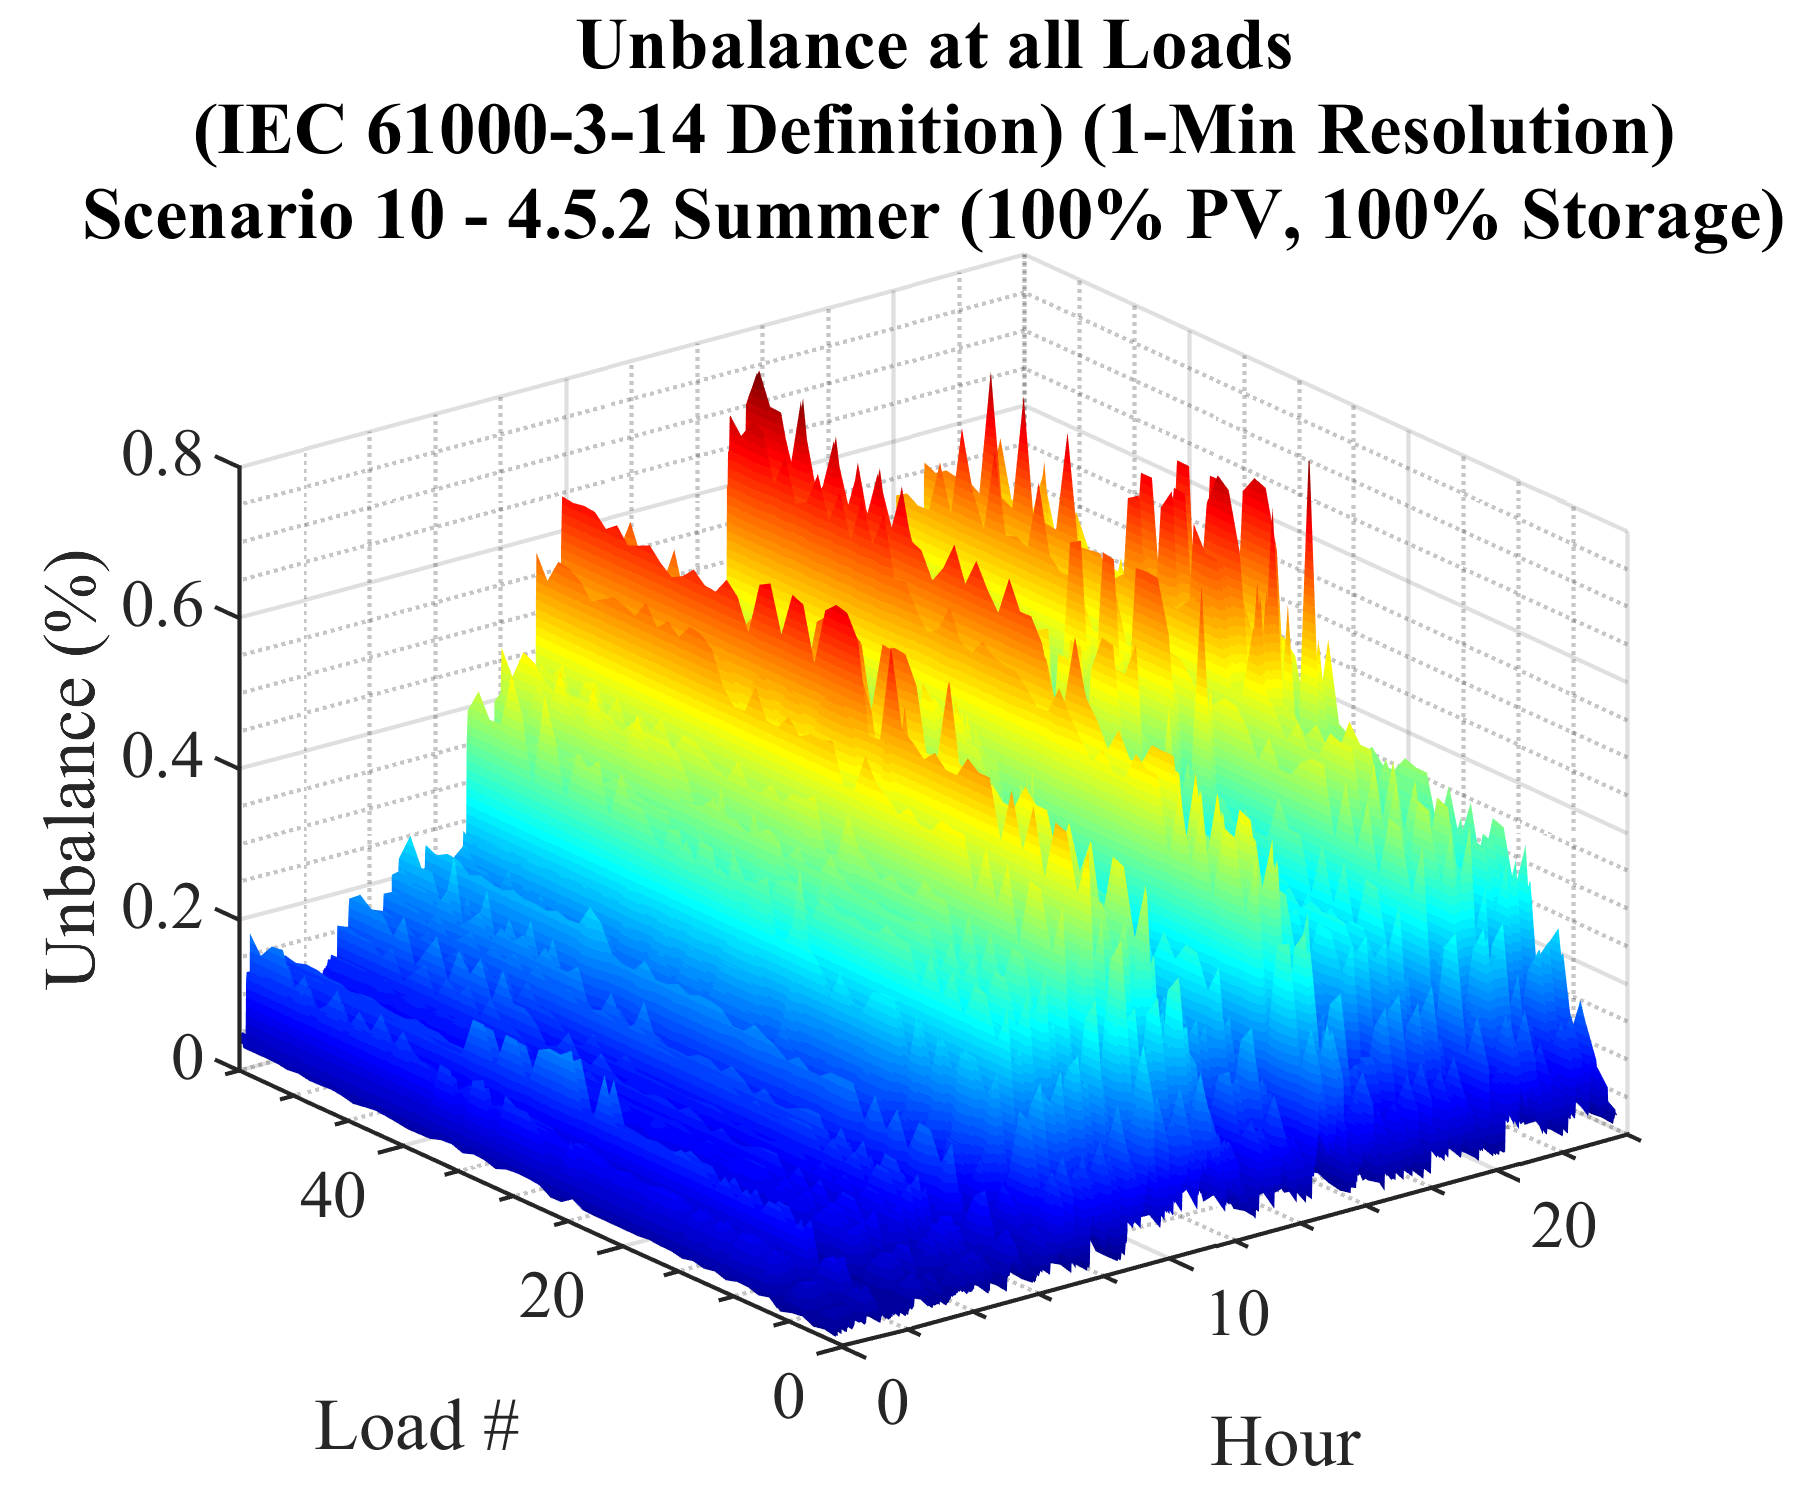
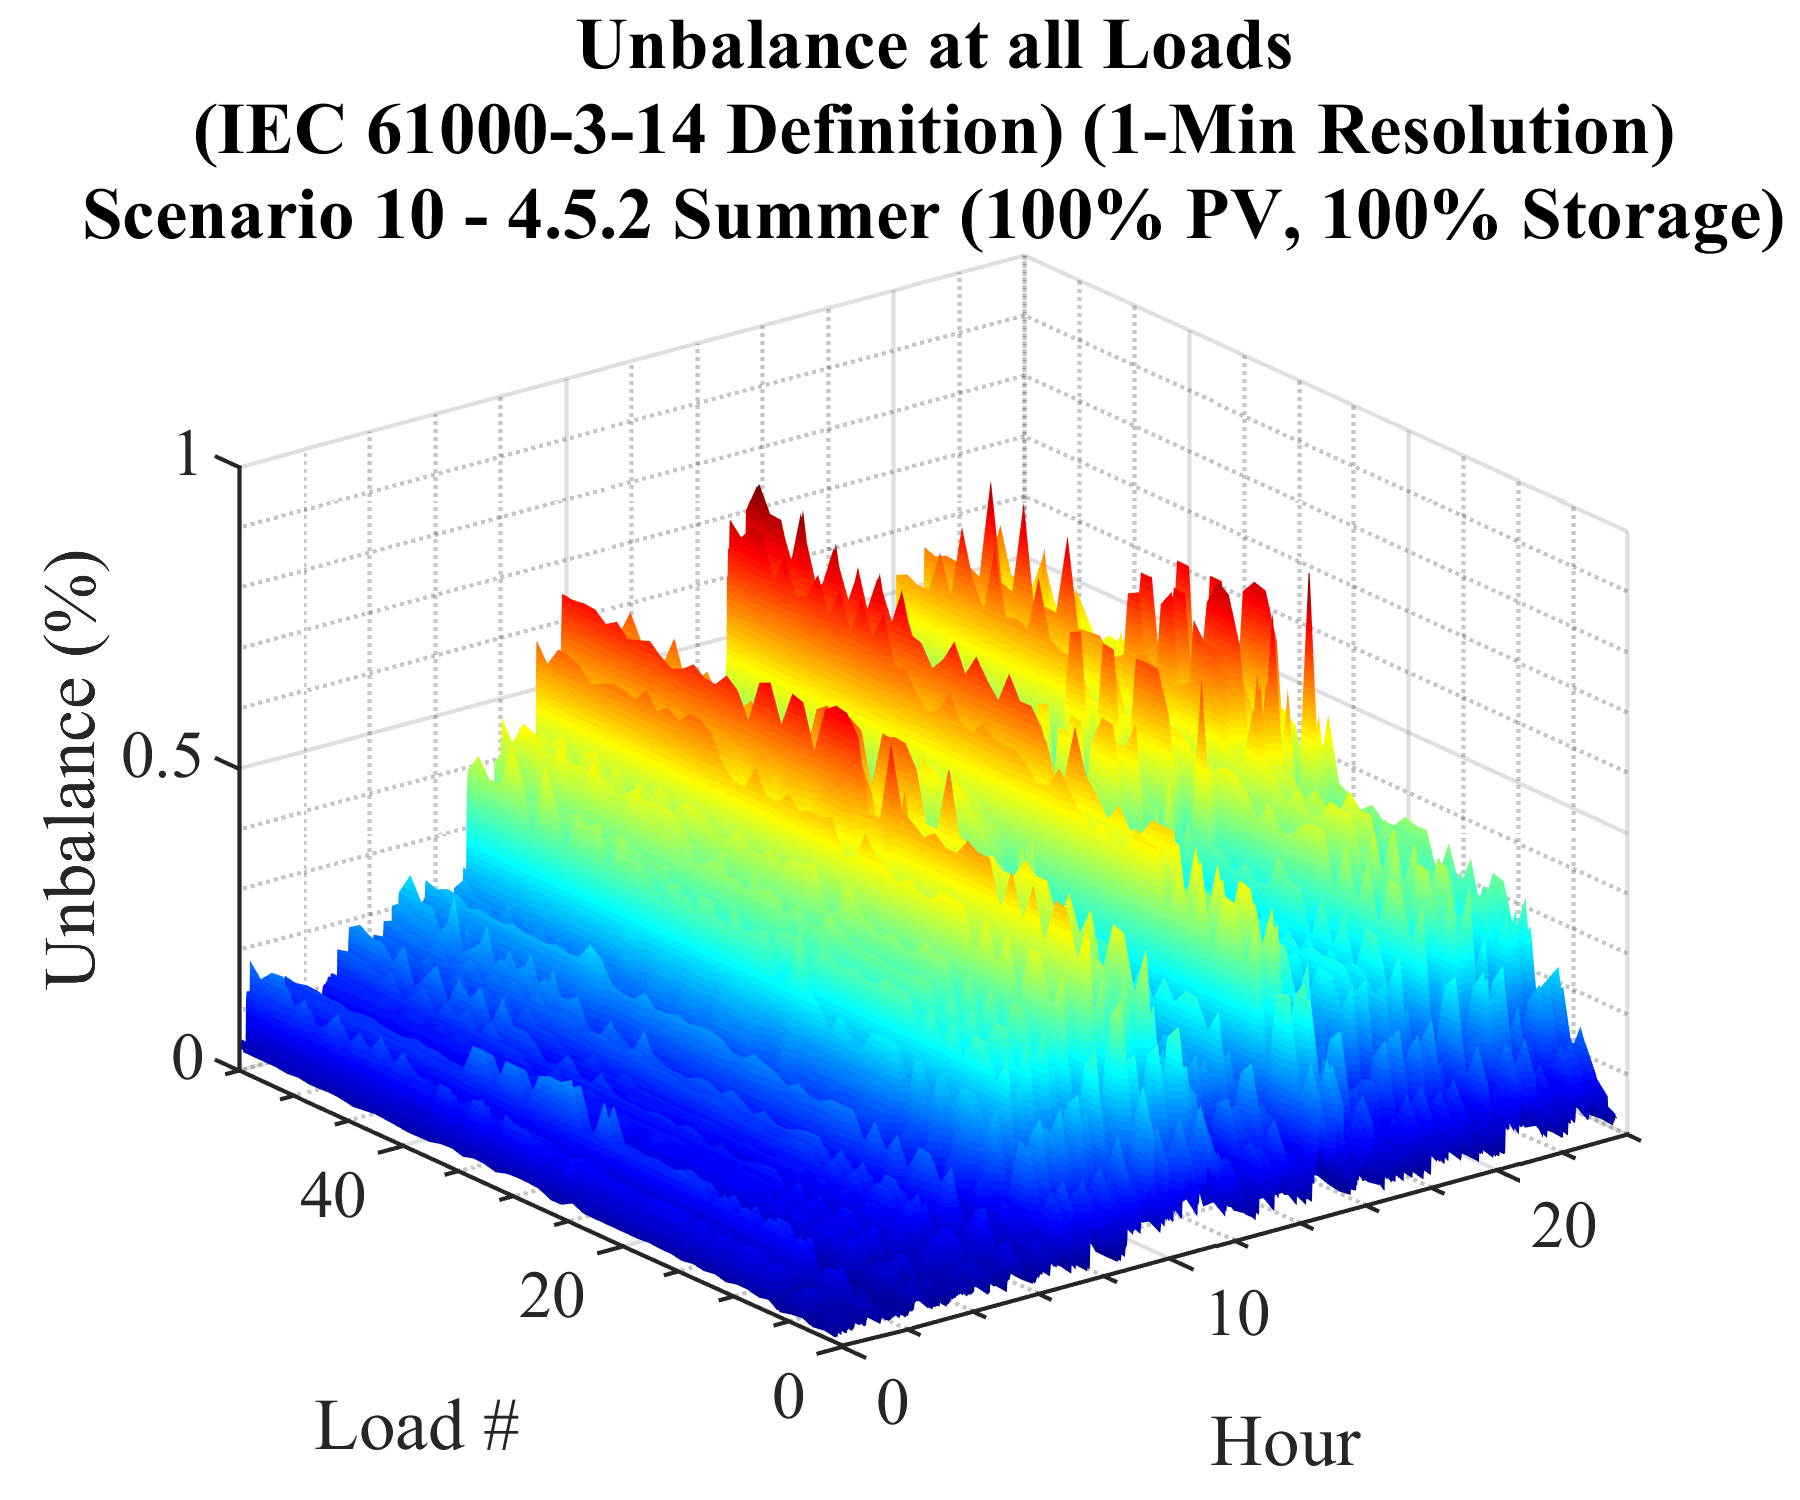
Update

diff --git a/OpenDSS Script/Final_MSc_Thesis_Code_Stefan_Bajai.m b/OpenDSS Script/Final_MSc_Thesis_Code_Stefan_Bajai.m
@@ -669,6 +669,7 @@ xlim([0 ROWS/60])
 ylabel('Load #')
 ylim([0 COLUMNS])
 zlabel('Unbalance (%)')
+zlim([0, 1])
 
 %%--%%--%%--PLOT STYLING--%%--%%--%%
 
@@ -1021,9 +1022,9 @@ legend({'Active Line Losses (kW)','Transformer Reactive Losses (kVAr)', 'Reactiv
 % StackedBarENERGYFigure.PaperPosition = [0 0 3 2.5];
 % print(StackedBarENERGYFigure, ['C:\Users\bajai\Documents\GitHub\MSc-Project---Impact-of-PV-and-Battery-Storage-on-Distribution-System\Plots\Non-interactive Plots (PNG)\Total_Grid_and_Transformer_Energy_Plot_' sprintf(Scenario,ID1,ID2,ID3,Season) '.png'], '-dpng','-r600');
 % 
-% UnbalancePlotFigure.PaperUnits = 'inches';
-% UnbalancePlotFigure.PaperPosition = [0 0 3 2.5];
-% print(UnbalancePlotFigure, ['C:\Users\bajai\Documents\GitHub\MSc-Project---Impact-of-PV-and-Battery-Storage-on-Distribution-System\Plots\Non-interactive Plots (PNG)\3_Phase_Unbalance_Plot_' sprintf(Scenario,ID1,ID2,ID3,Season) '.png'], '-dpng','-r600');
+UnbalancePlotFigure.PaperUnits = 'inches';
+UnbalancePlotFigure.PaperPosition = [0 0 3 2.5];
+print(UnbalancePlotFigure, ['C:\Users\bajai\Documents\GitHub\MSc-Project---Impact-of-PV-and-Battery-Storage-on-Distribution-System\Plots\Non-interactive Plots (PNG)\3_Phase_Unbalance_Plot_' sprintf(Scenario,ID1,ID2,ID3,Season) '.png'], '-dpng','-r600');
 % 
 % V1_3D_PLOTFigure.PaperUnits = 'inches';
 % V1_3D_PLOTFigure.PaperPosition = [0 0 3 2.5];
